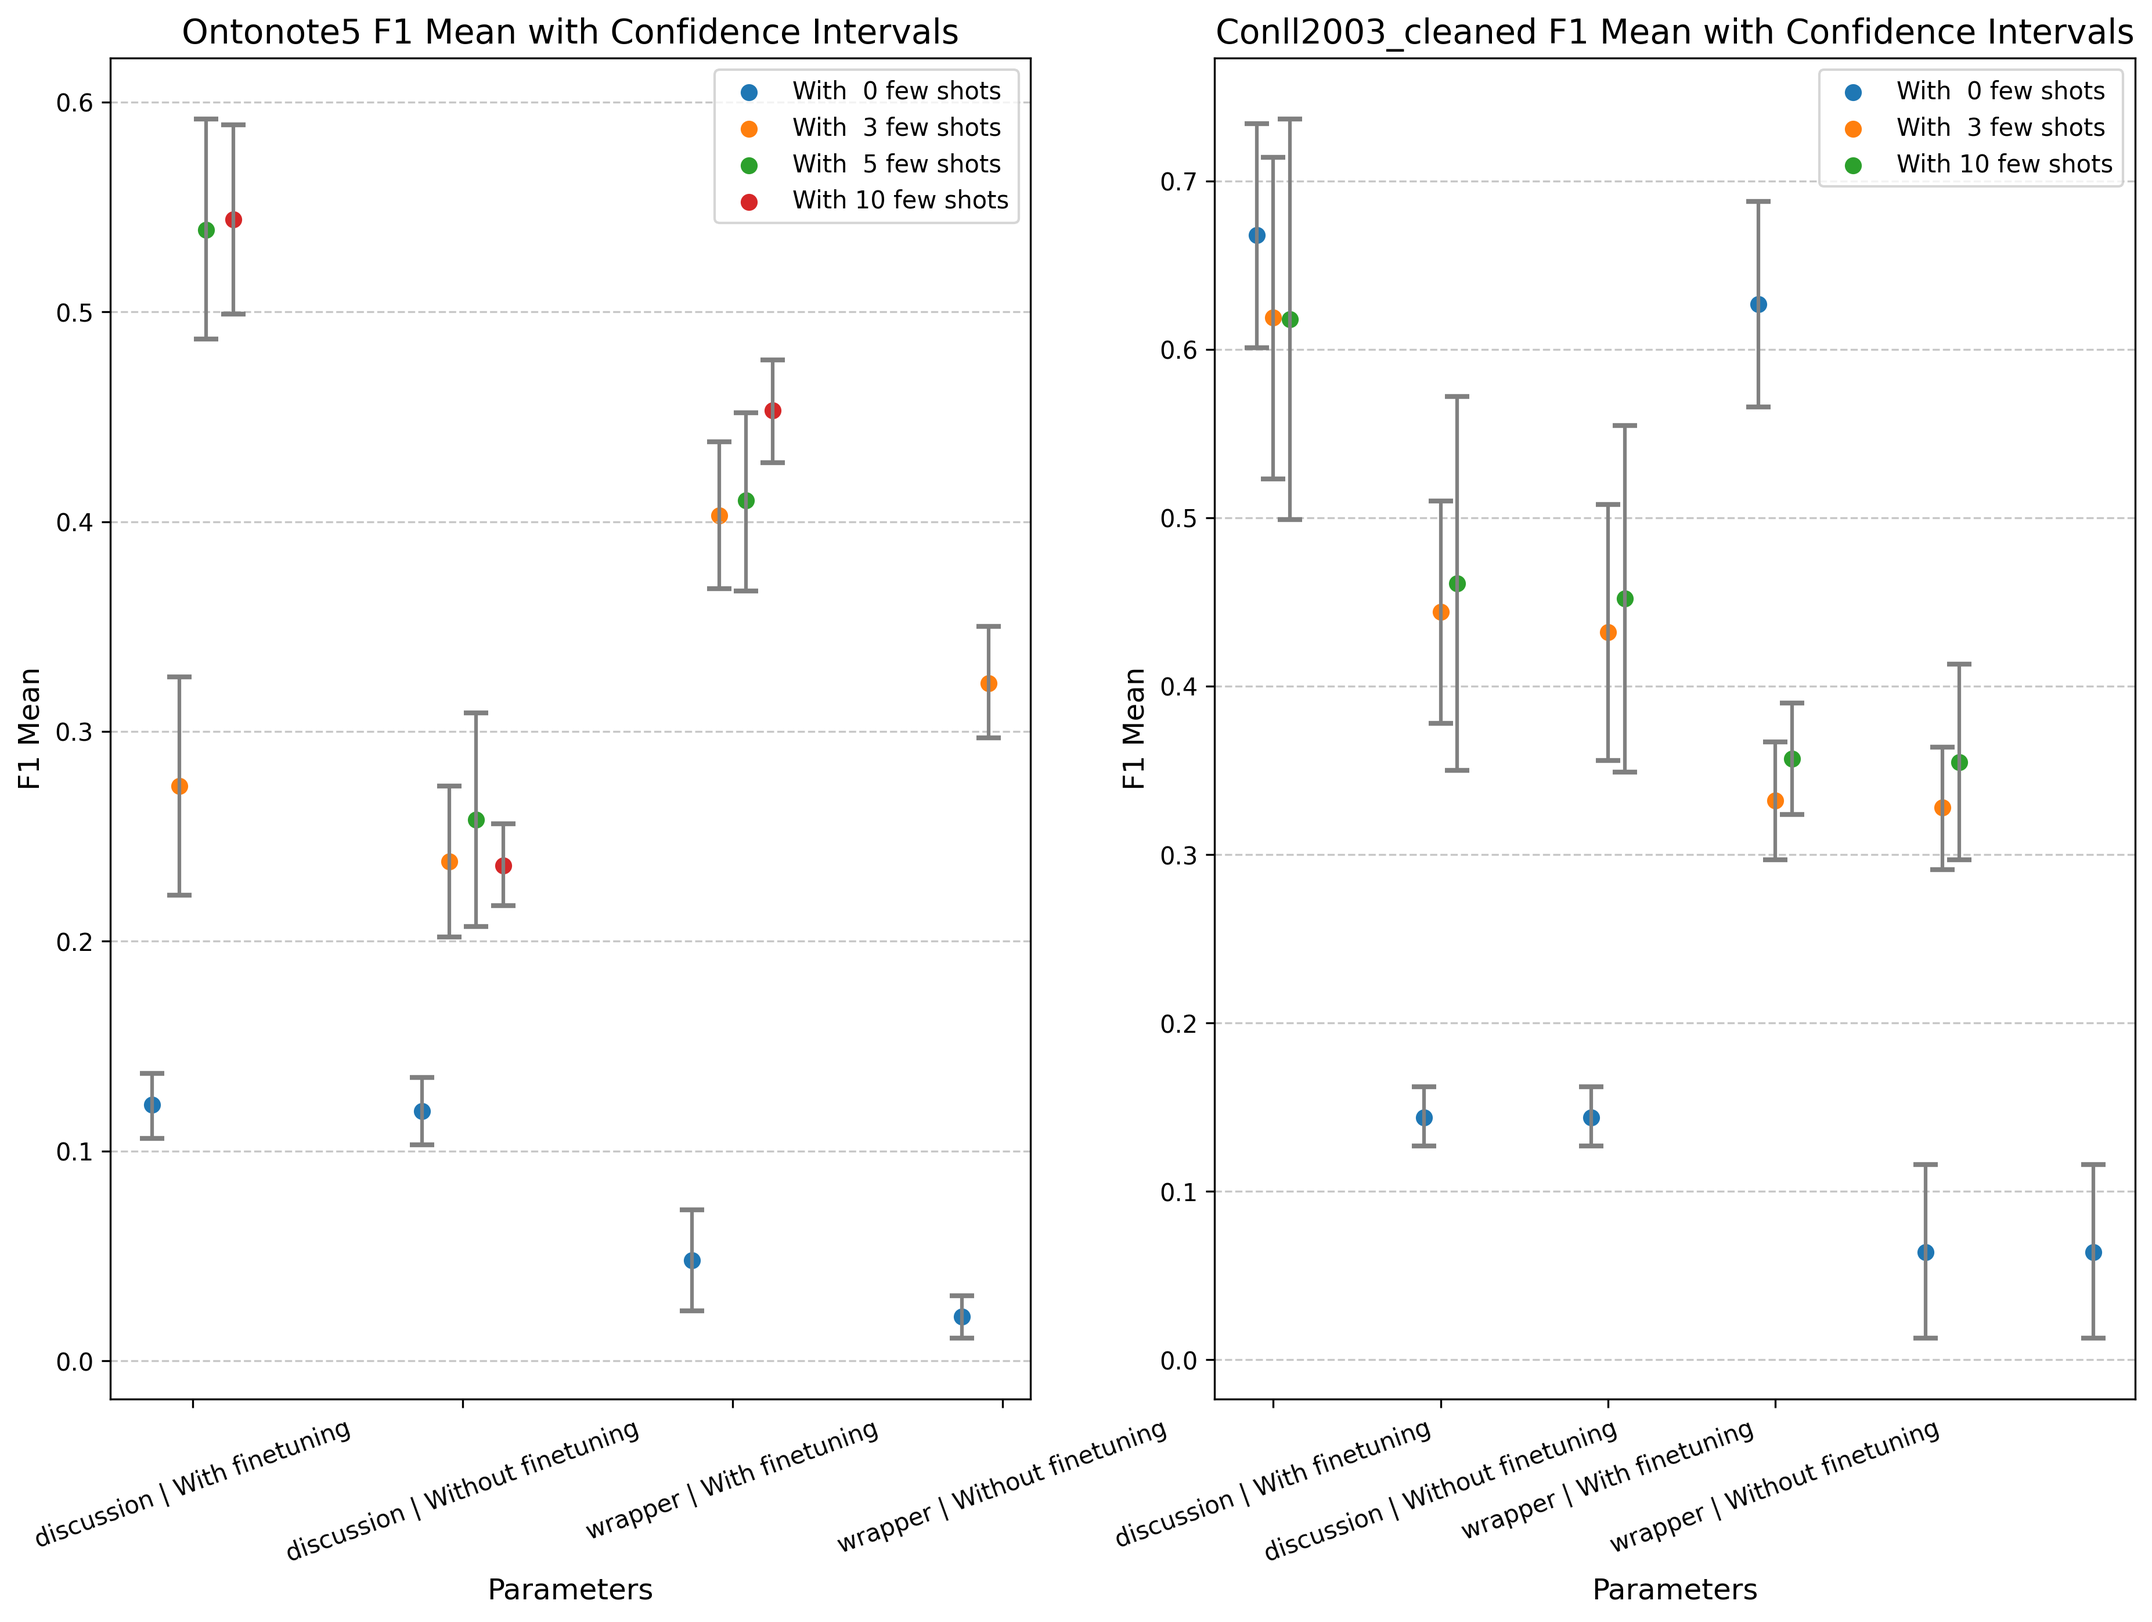
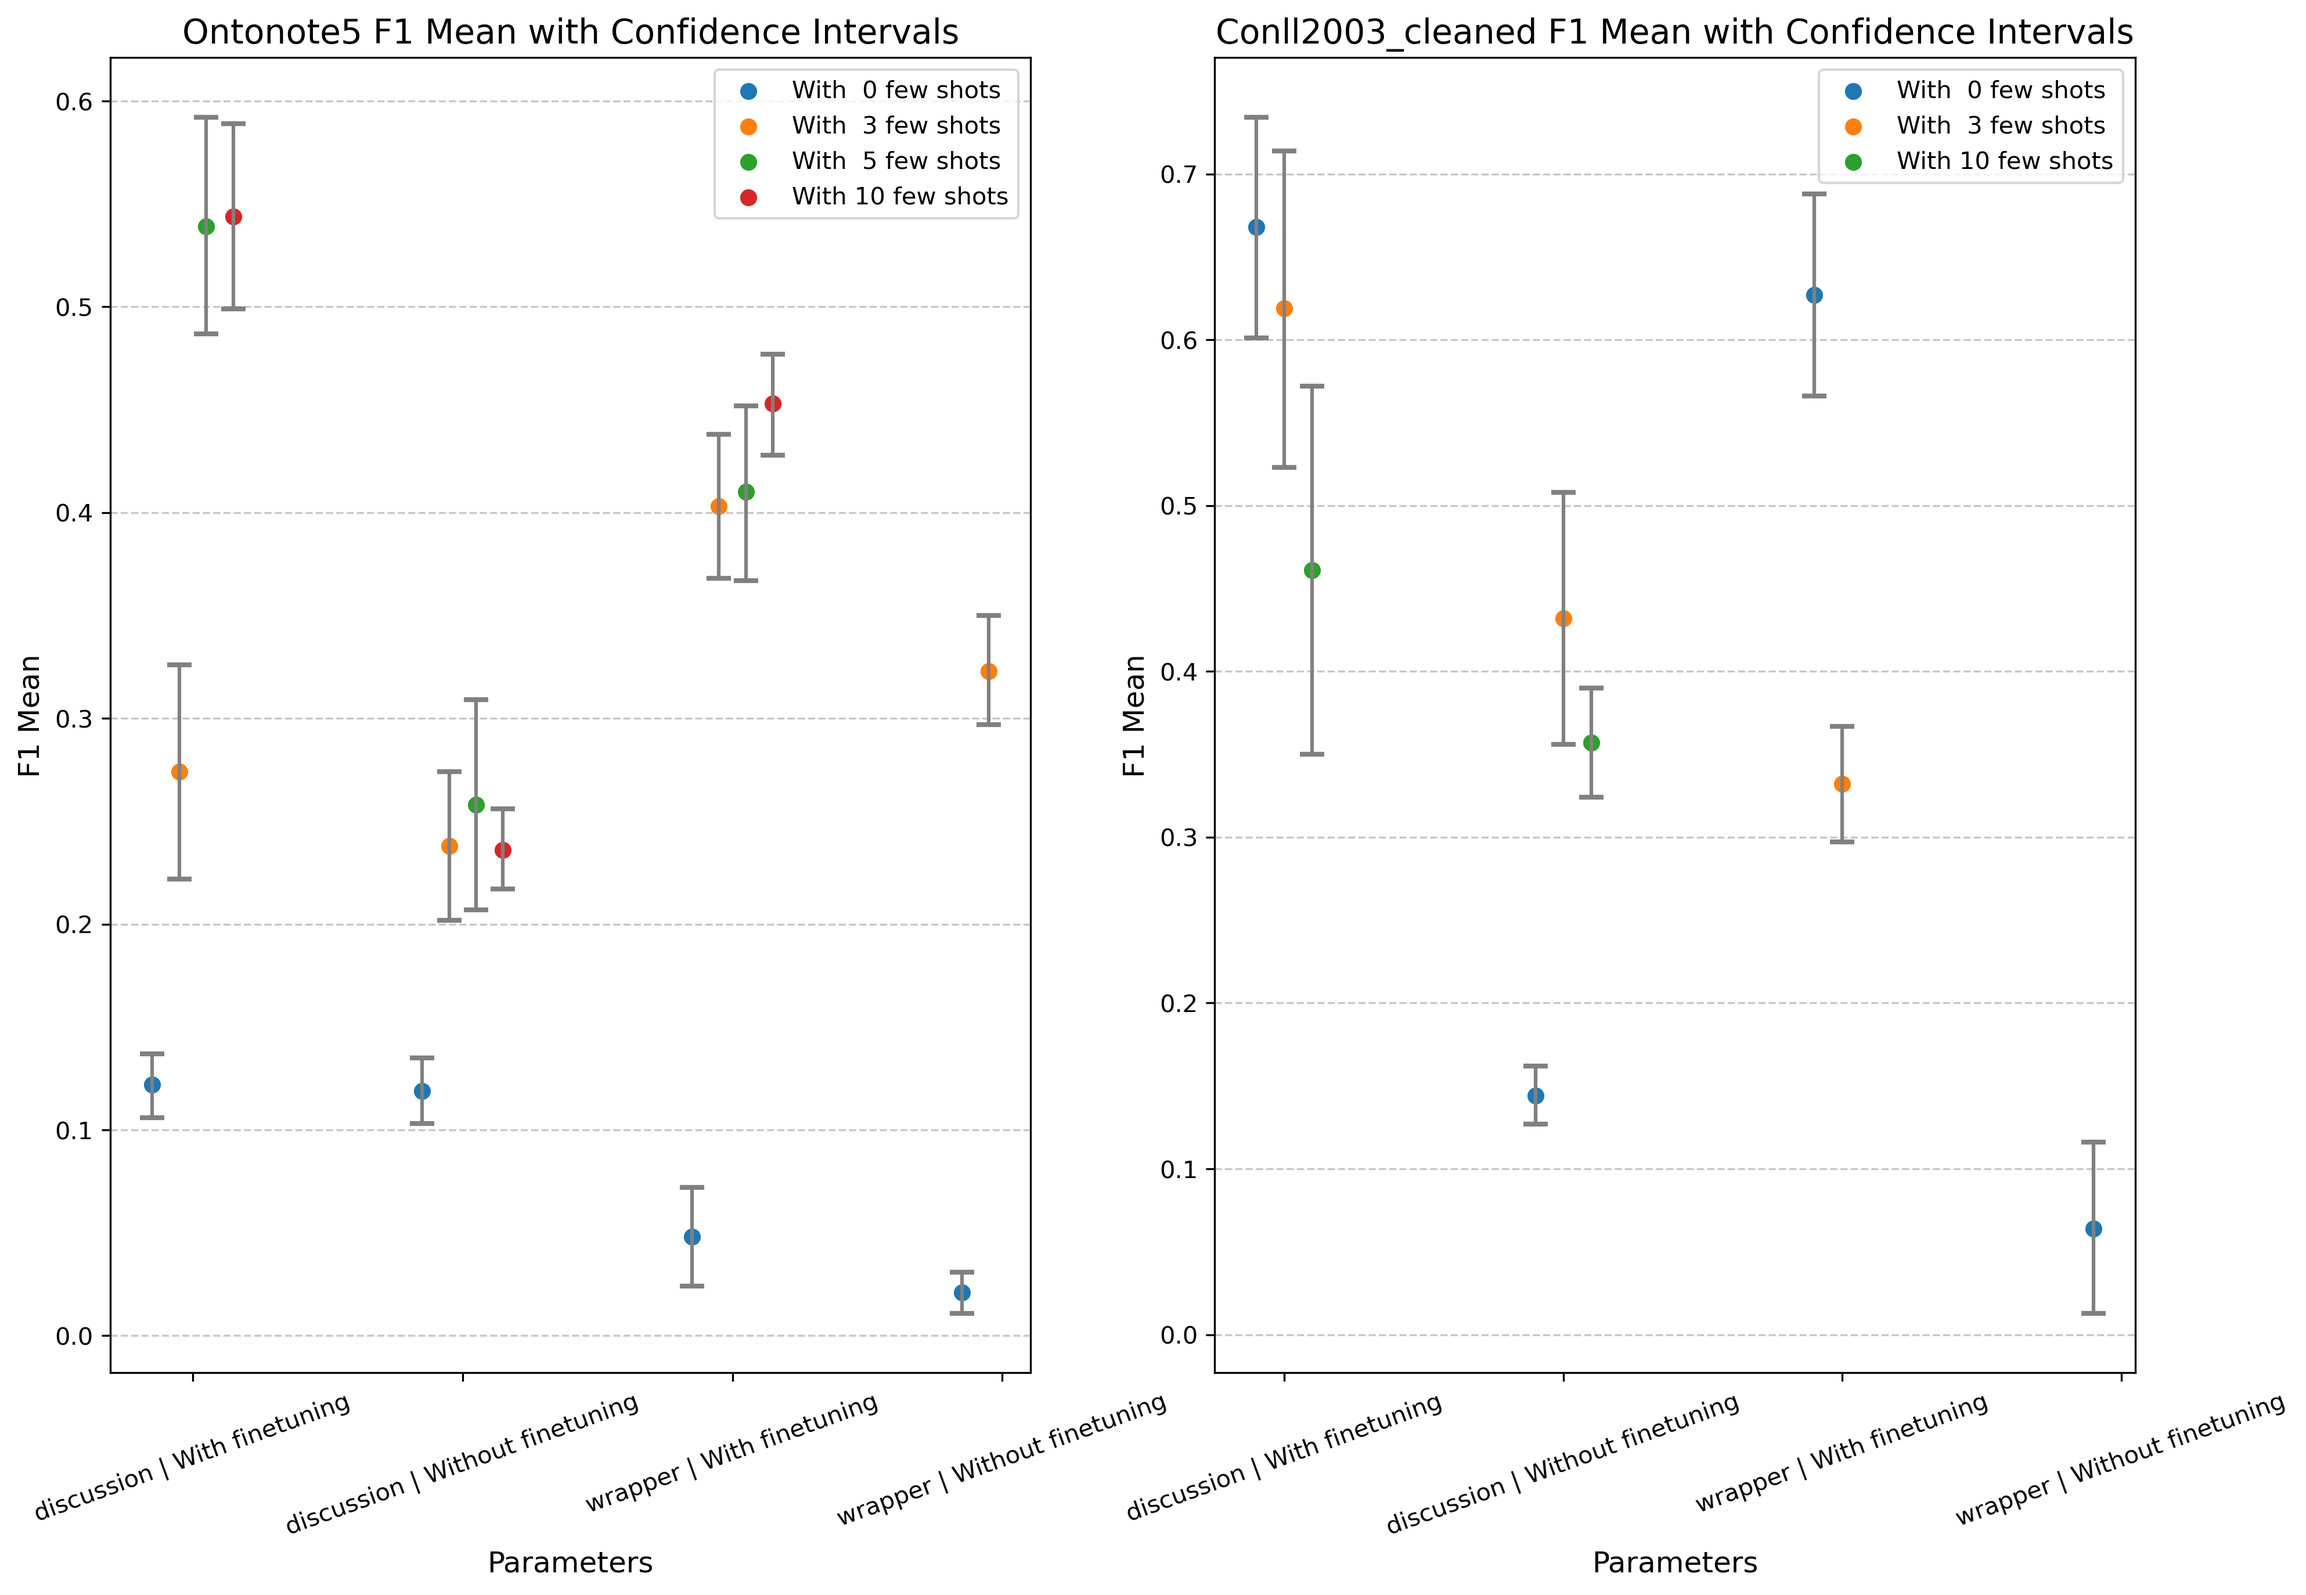
Clean results

diff --git a/ner/plot_results.py b/ner/plot_results.py
@@ -119,7 +119,7 @@ def show_diff_ft(with_few_shots = False, datasets = ["ontonote5", "conll2003_cle
             df_to_show = df_results[df_results['nb_few_shots'] == 0]
         if dataset == 'ontonote5' :
             df_to_show = df_to_show[df_to_show['precision'] == '300']
-        elif dataset == 'conll2003_dataset' :
+        elif dataset == 'conll2003_cleaned' :
             df_to_show = df_to_show[df_results['nb_test_run'] * df_results['len_data_test'] == '300']
             
         df_to_show= df_to_show[df_to_show['precision'] == '300']
@@ -150,14 +150,17 @@ def show_results_few_shots(datasets = ["ontonote5", "conll2003_cleaned"]):
         df_to_show = df_to_show[df_to_show['plus_plus'] == True]
         if dataset == 'ontonote5' :
             df_to_show = df_to_show[df_to_show['precision'] == '300']
-        elif dataset == 'conll2003_dataset' :
-            df_to_show = df_to_show[df_results['nb_test_run'] * df_results['len_data_test'] == '300']
+        elif dataset == 'conll2003_cleaned' :
+            df_to_show = df_to_show[df_results['nb_test_run'] * df_results['len_data_test'] == 300]
+            df_to_show = df_to_show[df_to_show['precision'] == '300']
         df_to_show = df_to_show[df_to_show['prompt_technique'].isin(['wrapper', 'discussion'])]
 
         df_to_show['x_names']= df_to_show.apply(lambda row :f"{row['prompt_technique']} | {'With' if row['ft'] else 'Without'} finetuning", axis = 1)
         df_to_show['tech_name'] = df_to_show.apply(lambda row :f"With {' ' if row['nb_few_shots'] <10 else ''}{row['nb_few_shots']} few shots", axis = 1)
 
         df = df_to_show
+
+        print(df.sort_values(["model", "prompt_technique"]))
 
         # Convert the f1_conf_inter column to a tuple of floats
         df['f1_conf_inter'] = df['f1_conf_inter'].apply(lambda x: ast.literal_eval(x))
